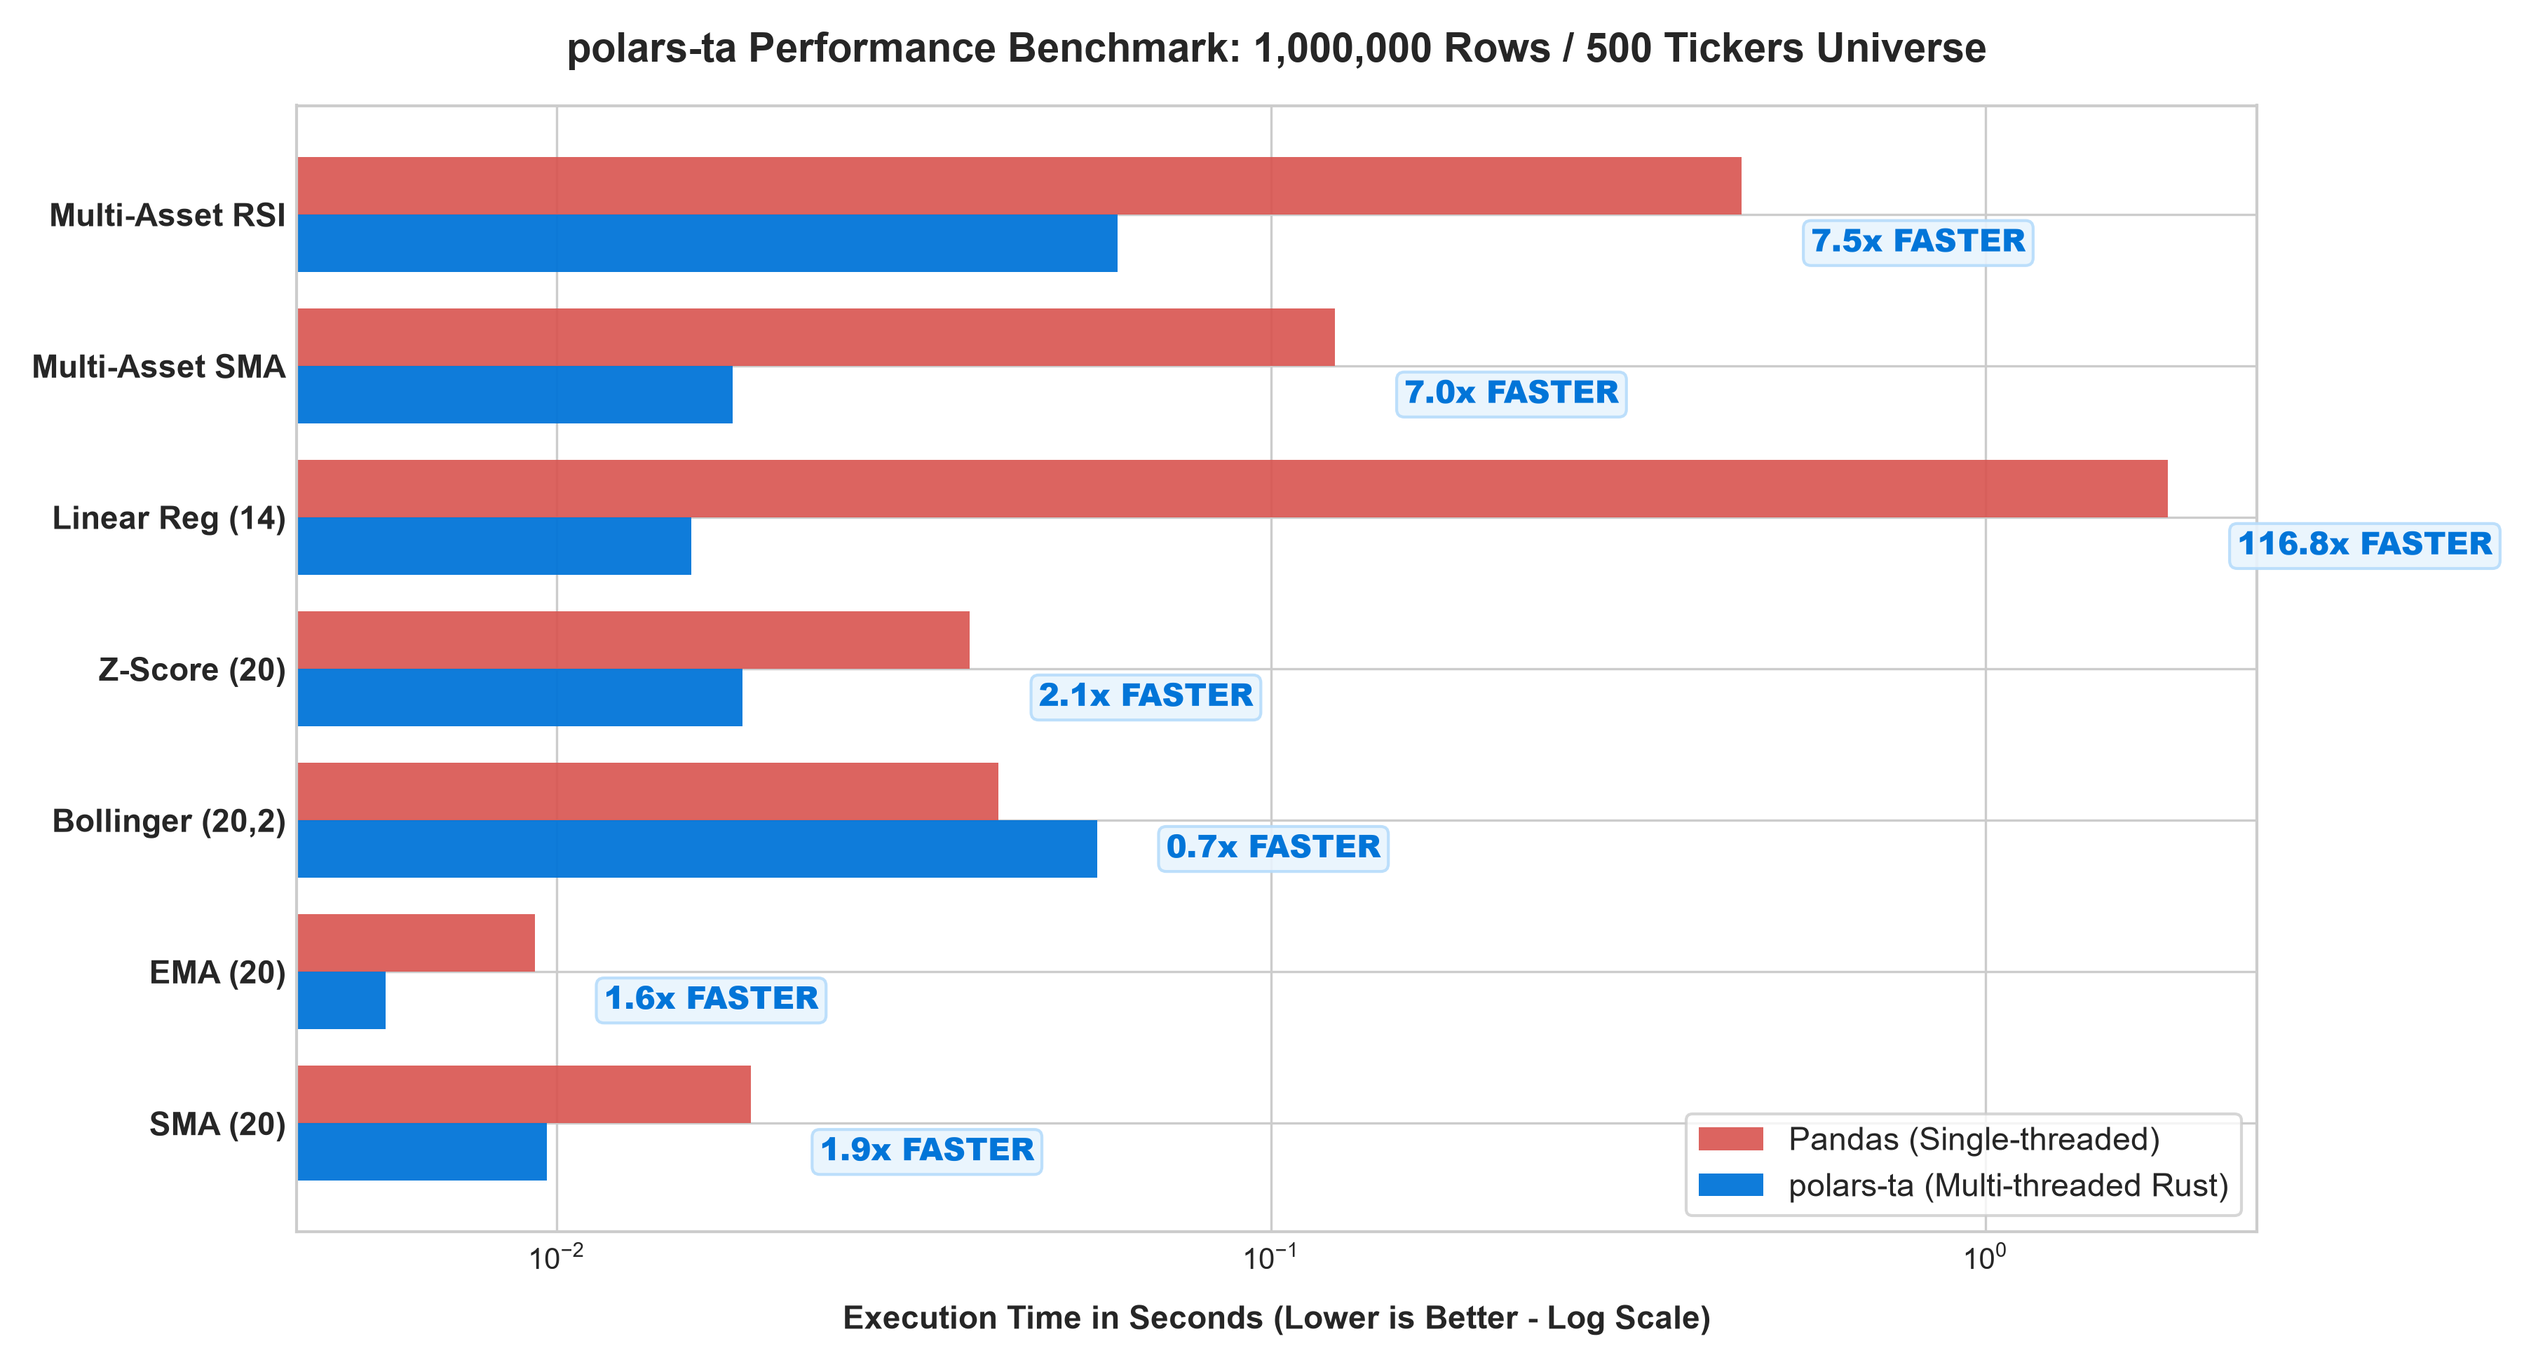
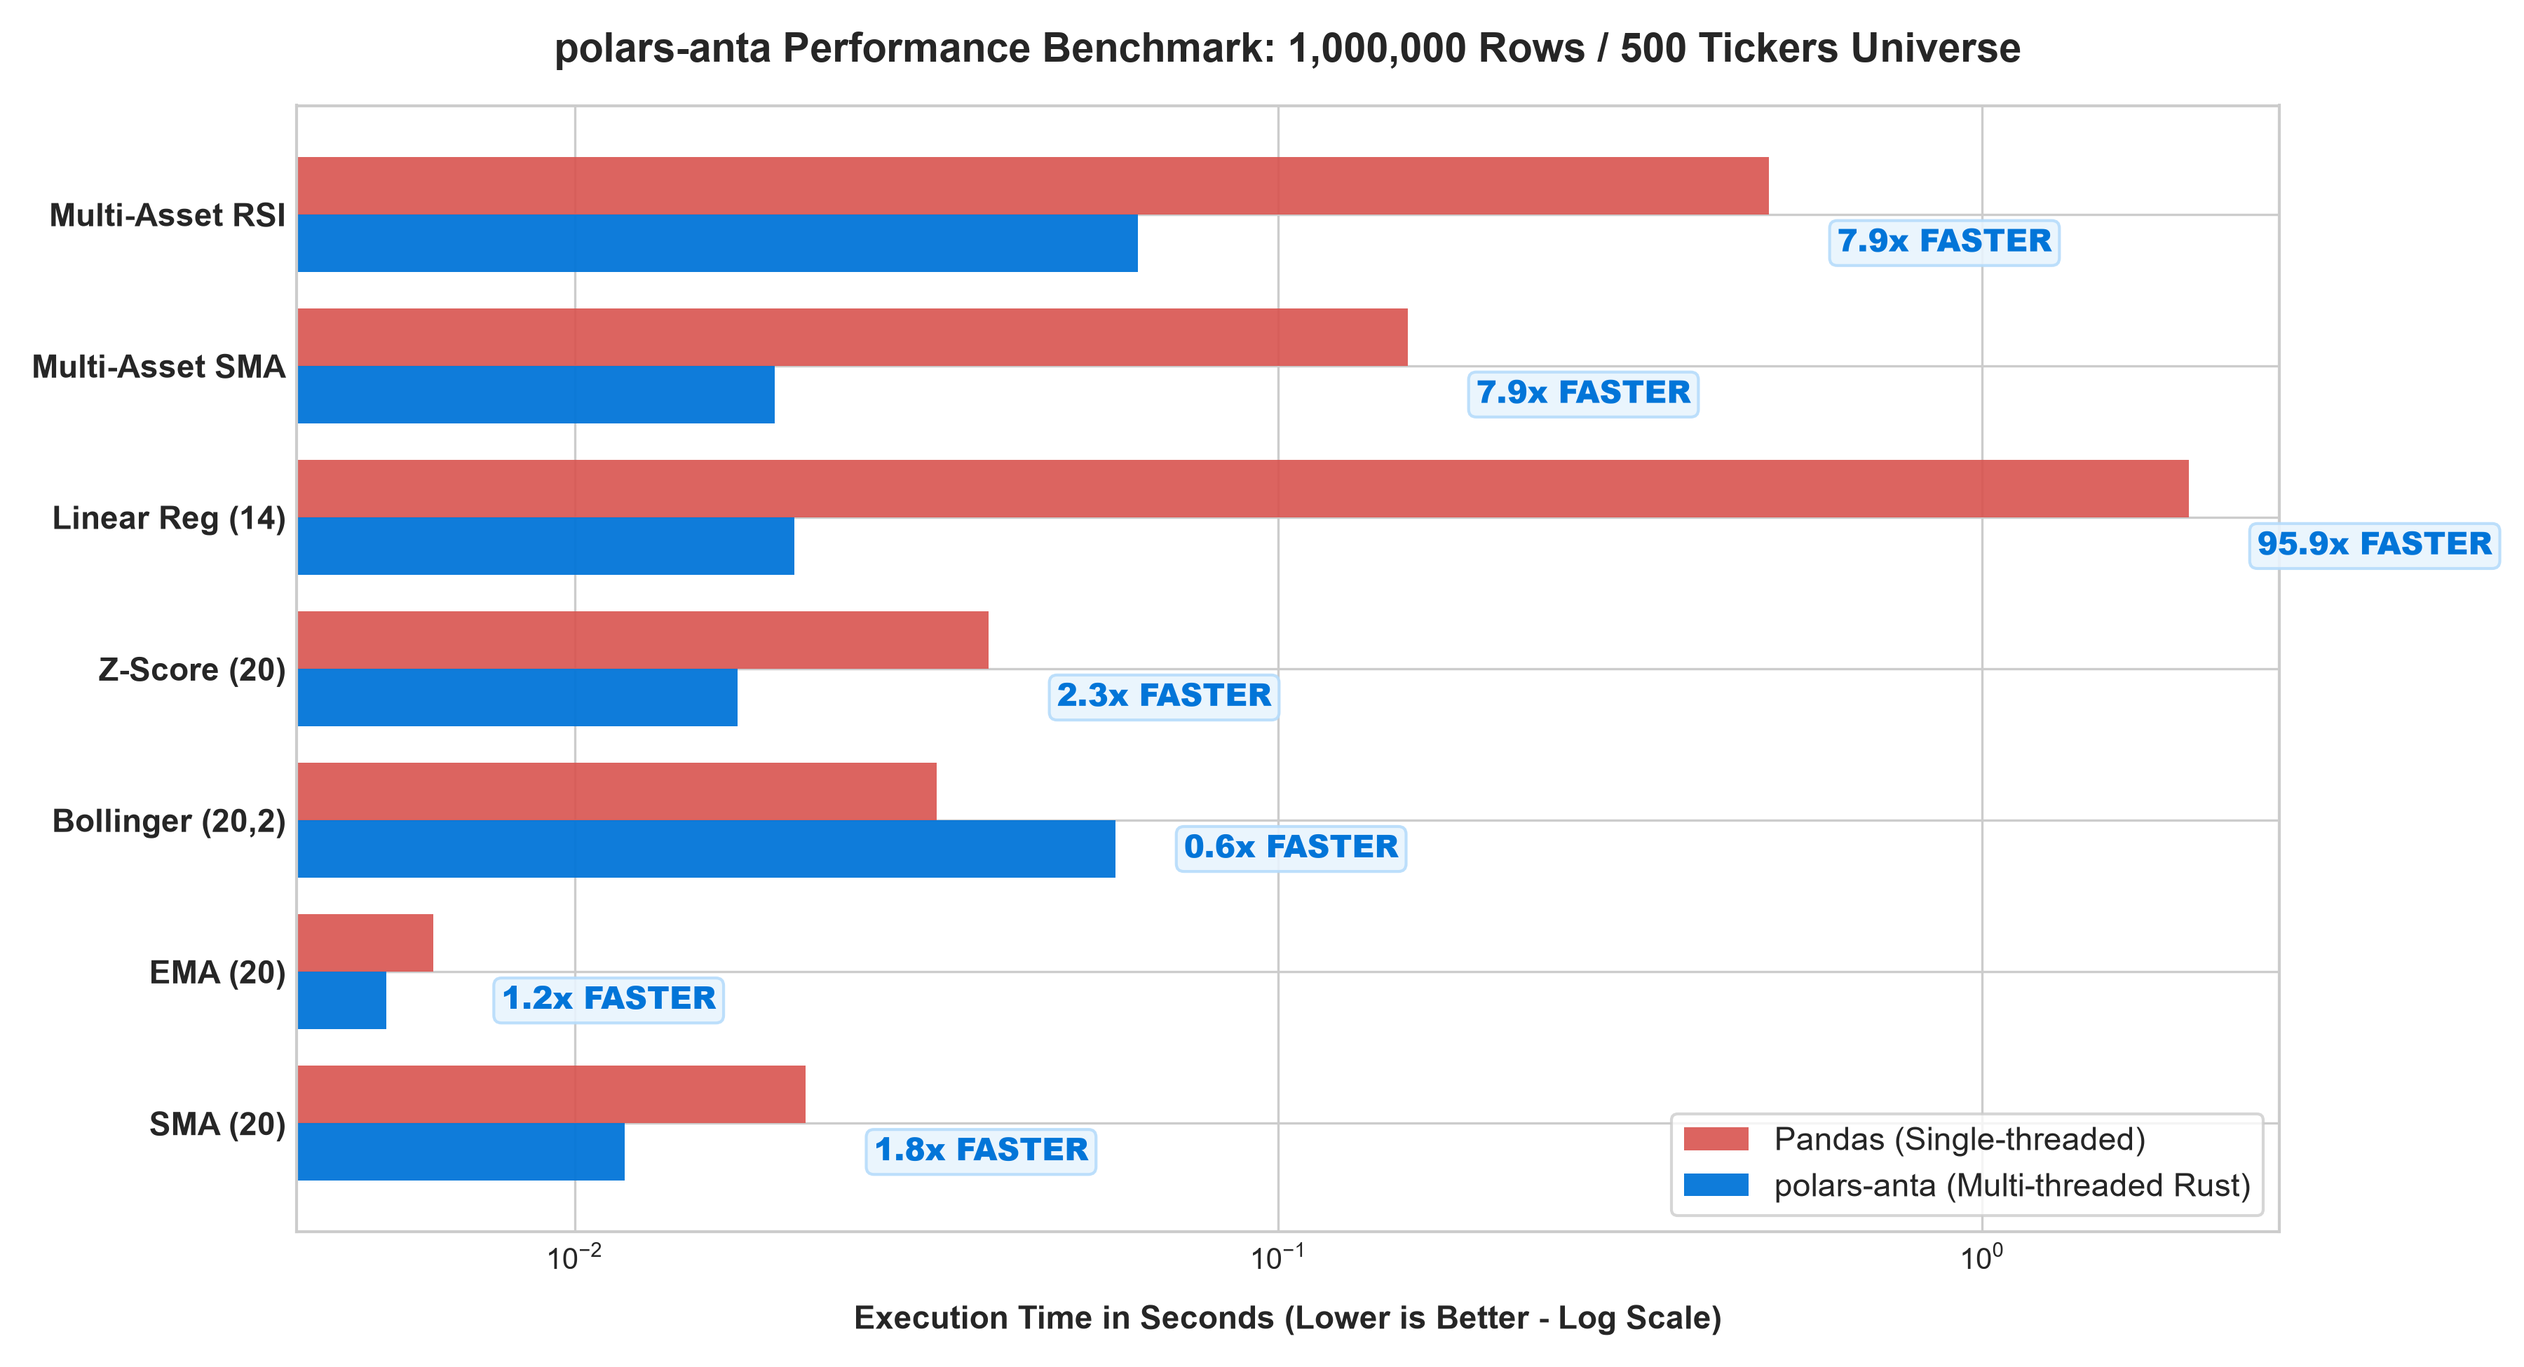
chore(rebrand): transition library, namespaces, docs, and benchmarks to polars-anta

diff --git a/benchmarks/benchmark_speed.py b/benchmarks/benchmark_speed.py
@@ -1,4 +1,4 @@
-"""High-throughput performance benchmark: polars-ta vs Pandas / NumPy.
+"""High-throughput performance benchmark: polars-anta vs Pandas / NumPy.
 
 Measures computation time across single-asset 1,000,000 bars and
 multi-asset 500 tickers x 2,000 bars (1,000,000 total rows).
@@ -15,7 +15,7 @@ import numpy as np
 import pandas as pd
 import polars as pl
 
-import polars_ta  # noqa: F401
+import polars_anta  # noqa: F401
 
 
 def generate_single_asset_data(n_rows: int = 1_000_000) -> tuple[pl.DataFrame, pd.DataFrame]:
@@ -94,9 +94,9 @@ def benchmark_single_asset(df_pl: pl.DataFrame, df_pd: pd.DataFrame) -> dict[str
 
     # Polars
     t0 = time.perf_counter()
-    _ = df_pl.select(pl.col("close").ta.sma(20))
+    _ = df_pl.select(pl.col("close").anta.sma(20))
     t_pl = time.perf_counter() - t0
-    results["SMA (20)"] = {"pandas": t_pd, "polars_ta": t_pl}
+    results["SMA (20)"] = {"pandas": t_pd, "polars_anta": t_pl}
 
     # 2. EMA (20)
     print("Benchmarking EMA(20)...")
@@ -105,9 +105,9 @@ def benchmark_single_asset(df_pl: pl.DataFrame, df_pd: pd.DataFrame) -> dict[str
     t_pd = time.perf_counter() - t0
 
     t0 = time.perf_counter()
-    _ = df_pl.select(pl.col("close").ta.ema(20))
+    _ = df_pl.select(pl.col("close").anta.ema(20))
     t_pl = time.perf_counter() - t0
-    results["EMA (20)"] = {"pandas": t_pd, "polars_ta": t_pl}
+    results["EMA (20)"] = {"pandas": t_pd, "polars_anta": t_pl}
 
     # 3. Bollinger Bands (20, 2)
     print("Benchmarking Bollinger Bands(20, 2)...")
@@ -119,9 +119,9 @@ def benchmark_single_asset(df_pl: pl.DataFrame, df_pd: pd.DataFrame) -> dict[str
     t_pd = time.perf_counter() - t0
 
     t0 = time.perf_counter()
-    _ = df_pl.select(pl.col("close").ta.bollinger_bands(20, 2.0))
+    _ = df_pl.select(pl.col("close").anta.bollinger_bands(20, 2.0))
     t_pl = time.perf_counter() - t0
-    results["Bollinger (20,2)"] = {"pandas": t_pd, "polars_ta": t_pl}
+    results["Bollinger (20,2)"] = {"pandas": t_pd, "polars_anta": t_pl}
 
     # 4. Z-Score (20)
     print("Benchmarking Z-Score(20)...")
@@ -132,9 +132,9 @@ def benchmark_single_asset(df_pl: pl.DataFrame, df_pd: pd.DataFrame) -> dict[str
     t_pd = time.perf_counter() - t0
 
     t0 = time.perf_counter()
-    _ = df_pl.select(pl.col("close").ta.zscore(20))
+    _ = df_pl.select(pl.col("close").anta.zscore(20))
     t_pl = time.perf_counter() - t0
-    results["Z-Score (20)"] = {"pandas": t_pd, "polars_ta": t_pl}
+    results["Z-Score (20)"] = {"pandas": t_pd, "polars_anta": t_pl}
 
     # 5. Linear Regression Slope (14)
     print("Benchmarking Linear Regression Slope(14)...")
@@ -148,9 +148,9 @@ def benchmark_single_asset(df_pl: pl.DataFrame, df_pd: pd.DataFrame) -> dict[str
     t_pd = time.perf_counter() - t0
 
     t0 = time.perf_counter()
-    _ = df_pl.select(pl.col("close").ta.linear_regression_slope(14))
+    _ = df_pl.select(pl.col("close").anta.linear_regression_slope(14))
     t_pl = time.perf_counter() - t0
-    results["Linear Reg (14)"] = {"pandas": t_pd, "polars_ta": t_pl}
+    results["Linear Reg (14)"] = {"pandas": t_pd, "polars_anta": t_pl}
 
     return results
 
@@ -165,9 +165,9 @@ def benchmark_multi_asset(df_pl: pl.DataFrame, df_pd: pd.DataFrame) -> dict[str,
     t_pd = time.perf_counter() - t0
 
     t0 = time.perf_counter()
-    _ = df_pl.select(pl.col("close").ta.sma(20).over("ticker"))
+    _ = df_pl.select(pl.col("close").anta.sma(20).over("ticker"))
     t_pl = time.perf_counter() - t0
-    results["Multi-Asset SMA"] = {"pandas": t_pd, "polars_ta": t_pl}
+    results["Multi-Asset SMA"] = {"pandas": t_pd, "polars_anta": t_pl}
 
     print("Benchmarking Multi-Asset (500 tickers): RSI(14)...")
 
@@ -186,9 +186,9 @@ def benchmark_multi_asset(df_pl: pl.DataFrame, df_pd: pd.DataFrame) -> dict[str,
     t_pd = time.perf_counter() - t0
 
     t0 = time.perf_counter()
-    _ = df_pl.select(pl.col("close").ta.rsi(14).over("ticker"))
+    _ = df_pl.select(pl.col("close").anta.rsi(14).over("ticker"))
     t_pl = time.perf_counter() - t0
-    results["Multi-Asset RSI"] = {"pandas": t_pd, "polars_ta": t_pl}
+    results["Multi-Asset RSI"] = {"pandas": t_pd, "polars_anta": t_pl}
 
     return results
 
@@ -197,7 +197,7 @@ def plot_benchmark_chart(all_results: dict[str, dict[str, float]], output_path: 
     """Renders a modern, publication-grade benchmark chart."""
     labels = list(all_results.keys())
     pd_times = [all_results[k]["pandas"] for k in labels]
-    pl_times = [all_results[k]["polars_ta"] for k in labels]
+    pl_times = [all_results[k]["polars_anta"] for k in labels]
     speedups = [pd_t / pl_t for pd_t, pl_t in zip(pd_times, pl_times, strict=False)]
 
     # Modern plot styling
@@ -221,7 +221,7 @@ def plot_benchmark_chart(all_results: dict[str, dict[str, float]], output_path: 
         y_pos - bar_height / 2,
         pl_times,
         height=bar_height,
-        label="polars-ta (Multi-threaded Rust)",
+        label="polars-anta (Multi-threaded Rust)",
         color="#0275d8",
         alpha=0.95,
     )
@@ -236,7 +236,7 @@ def plot_benchmark_chart(all_results: dict[str, dict[str, float]], output_path: 
     )
     ax.set_xscale("log")
     ax.set_title(
-        "polars-ta Performance Benchmark: 1,000,000 Rows / 500 Tickers Universe",
+        "polars-anta Performance Benchmark: 1,000,000 Rows / 500 Tickers Universe",
         fontsize=14,
         fontweight="bold",
         pad=15,
@@ -269,7 +269,7 @@ def plot_benchmark_chart(all_results: dict[str, dict[str, float]], output_path: 
 
 def main():
     print("=" * 70)
-    print("polars-ta High-Performance Benchmarking Suite")
+    print("polars-anta High-Performance Benchmarking Suite")
     print("=" * 70)
 
     # 1. Single Asset Benchmark
@@ -285,12 +285,12 @@ def main():
     # Print summary table
     print("\n" + "=" * 70)
     print(
-        f"{'Indicator / Operation':<25} | {'Pandas (s)':<12} | {'polars-ta (s)':<14} | {'Speedup':<10}"
+        f"{'Indicator / Operation':<25} | {'Pandas (s)':<12} | {'polars-anta (s)':<14} | {'Speedup':<10}"
     )
     print("-" * 70)
     for k, v in all_results.items():
         pd_t = v["pandas"]
-        pl_t = v["polars_ta"]
+        pl_t = v["polars_anta"]
         ratio = pd_t / pl_t
         print(f"{k:<25} | {pd_t:<12.4f} | {pl_t:<14.4f} | {ratio:<10.1f}x")
     print("=" * 70)

diff --git a/tests/test_namespace.py b/tests/test_namespace.py
@@ -1,11 +1,11 @@
-"""Tests for Polars .ta namespace integration."""
+"""Tests for Polars .anta and .ta namespace integration."""
 
 from __future__ import annotations
 
 import polars as pl
 
-# Importing polars_ta registers the `.ta` namespace on pl.Expr
-import polars_ta  # noqa: F401
+# Importing polars_anta registers both `.anta` and `.ta` namespaces on pl.Expr
+import polars_anta  # noqa: F401
 
 
 def test_namespace_trend(sample_ohlcv_df: pl.DataFrame):
@@ -235,3 +235,33 @@ def test_namespace_alpha(sample_ohlcv_df: pl.DataFrame):
     assert "hl_r" in df_res.columns
     assert "twap" in df_res.columns
     assert "entropy" in df_res.columns
+
+
+def test_namespace_anta_prefix(sample_ohlcv_df: pl.DataFrame):
+    """Verify that .anta prefix works identically to .ta prefix."""
+    df_anta = sample_ohlcv_df.select(
+        [
+            pl.col("close").anta.sma(5).alias("sma_anta"),
+            pl.col("close").anta.rsi(14).alias("rsi_anta"),
+            pl.col("close").anta.bollinger_bands(20).alias("bb_anta"),
+            pl.col("close").anta.obv("volume").alias("obv_anta"),
+            pl.col("close").anta.zscore(5).alias("zscore_anta"),
+            pl.col("close").anta.ts_rank(5).alias("ts_rank_anta"),
+        ]
+    )
+    df_ta = sample_ohlcv_df.select(
+        [
+            pl.col("close").ta.sma(5).alias("sma_ta"),
+            pl.col("close").ta.rsi(14).alias("rsi_ta"),
+            pl.col("close").ta.bollinger_bands(20).alias("bb_ta"),
+            pl.col("close").ta.obv("volume").alias("obv_ta"),
+            pl.col("close").ta.zscore(5).alias("zscore_ta"),
+            pl.col("close").ta.ts_rank(5).alias("ts_rank_ta"),
+        ]
+    )
+
+    assert df_anta["sma_anta"].equals(df_ta["sma_ta"])
+    assert df_anta["rsi_anta"].equals(df_ta["rsi_ta"])
+    assert df_anta["obv_anta"].equals(df_ta["obv_ta"])
+    assert df_anta["zscore_anta"].equals(df_ta["zscore_ta"])
+    assert df_anta["ts_rank_anta"].equals(df_ta["ts_rank_ta"])

diff --git a/examples/quickstart.py b/examples/quickstart.py
@@ -1,4 +1,4 @@
-"""Quickstart example demonstrating polars-ta usage and multi-asset grouping."""
+"""Quickstart example demonstrating polars-anta usage and multi-asset grouping."""
 
 from __future__ import annotations
 
@@ -6,14 +6,15 @@ import sys
 
 import polars as pl
 
-import polars_ta  # noqa: F401
+# Importing polars_anta registers both `.anta` and `.ta` namespaces on expressions
+import polars_anta  # noqa: F401
 
 if hasattr(sys.stdout, "reconfigure"):
     sys.stdout.reconfigure(encoding="utf-8")
 
 
 def main():
-    print("--- 1. Single Asset Example ---")
+    print("--- 1. Single Asset Example (using .anta namespace) ---")
     df = pl.DataFrame(
         {
             "open": [100.0, 101.5, 102.0, 101.0, 103.5, 105.0, 104.2, 106.0],
@@ -24,13 +25,13 @@ def main():
         }
     )
 
-    # Compute SMA, RSI, Bollinger Bands, and OBV
+    # Compute SMA, RSI, Bollinger Bands, and OBV using .anta (or .ta)
     computed = df.with_columns(
         [
-            pl.col("close").ta.sma(3).alias("sma_3"),
-            pl.col("close").ta.rsi(3).alias("rsi_3"),
-            pl.col("close").ta.bollinger_bands(period=3).alias("bb"),
-            pl.col("close").ta.obv("volume").alias("obv"),
+            pl.col("close").anta.sma(3).alias("sma_3"),
+            pl.col("close").anta.rsi(3).alias("rsi_3"),
+            pl.col("close").anta.bollinger_bands(period=3).alias("bb"),
+            pl.col("close").anta.obv("volume").alias("obv"),
         ]
     )
 
@@ -49,8 +50,8 @@ def main():
     )
 
     result_multi = multi_asset.with_columns(
-        pl.col("close").ta.sma(2).over("ticker").alias("sma_2"),
-        pl.col("close").ta.rsi(2).over("ticker").alias("rsi_2"),
+        pl.col("close").anta.sma(2).over("ticker").alias("sma_2"),
+        pl.col("close").anta.rsi(2).over("ticker").alias("rsi_2"),
     )
     print(result_multi)
 

diff --git a/tests/test_parity.py b/tests/test_parity.py
@@ -1,6 +1,6 @@
-"""Mathematical parity and precision verification tests for polars-ta indicators.
+"""Mathematical parity and precision verification tests for polars-anta indicators.
 
-Verifies that polars-ta indicators match textbook mathematical definitions
+Verifies that polars-anta indicators match textbook mathematical definitions
 and golden reference implementations within machine epsilon / float precision (< 1e-6).
 """
 
@@ -9,9 +9,9 @@ from __future__ import annotations
 import polars as pl
 import pytest
 
-from polars_ta.stats import linear_regression_slope, zscore
-from polars_ta.trend import dema, ema, sma, wma
-from polars_ta.volatility import bollinger_bands
+from polars_anta.stats import linear_regression_slope, zscore
+from polars_anta.trend import dema, ema, sma, wma
+from polars_anta.volatility import bollinger_bands
 
 
 @pytest.fixture

diff --git a/src/polars_anta/namespace.py b/src/polars_anta/namespace.py
@@ -12,11 +12,12 @@ if TYPE_CHECKING:
     from .core import IntoExpr
 
 
+@pl.api.register_expr_namespace("anta")
 @pl.api.register_expr_namespace("ta")
 class TechnicalAnalysisExpr:
-    """Namespace for technical analysis operations on Polars expressions.
+    """Namespace for technical analysis and alpha factor operations on Polars expressions.
 
-    Allows chaining technical analysis indicators directly on `pl.col(...)`.
+    Allows chaining indicators directly on `pl.col(...)` via `.anta.<indicator>()` or `.ta.<indicator>()`.
     """
 
     def __init__(self, expr: pl.Expr) -> None:

diff --git a/src/polars_anta/__init__.py b/src/polars_anta/__init__.py
@@ -1,4 +1,4 @@
-"""polars-ta: High-performance, zero-C technical analysis and factor library powered by Polars."""
+"""polars-anta: Alpha & Numerical Technical Analysis library powered natively by Polars."""
 
 from __future__ import annotations
 

diff --git a/tests/test_stats.py b/tests/test_stats.py
@@ -3,7 +3,7 @@ from __future__ import annotations
 import polars as pl
 import pytest
 
-from polars_ta.stats import (
+from polars_anta.stats import (
     kurtosis,
     linear_regression_angle,
     linear_regression_forecast,

diff --git a/tests/test_momentum.py b/tests/test_momentum.py
@@ -5,7 +5,7 @@ from __future__ import annotations
 import polars as pl
 import pytest
 
-from polars_ta.momentum import (
+from polars_anta.momentum import (
     awesome_oscillator,
     bop,
     cci,

diff --git a/tests/test_volatility.py b/tests/test_volatility.py
@@ -4,7 +4,7 @@ from __future__ import annotations
 
 import polars as pl
 
-from polars_ta.volatility import (
+from polars_anta.volatility import (
     atr,
     bollinger_bands,
     bollinger_delta,

diff --git a/tests/test_alpha.py b/tests/test_alpha.py
@@ -3,7 +3,7 @@ from __future__ import annotations
 import polars as pl
 import pytest
 
-from polars_ta.alpha import (
+from polars_anta.alpha import (
     co_ratio,
     decay_linear,
     entropy,

diff --git a/src/polars_anta/core.py b/src/polars_anta/core.py
@@ -1,4 +1,4 @@
-"""Core utility functions and expression helpers for polars-ta."""
+"""Core utility functions and expression helpers for polars-anta."""
 
 from __future__ import annotations
 

diff --git a/tests/test_trend.py b/tests/test_trend.py
@@ -5,7 +5,7 @@ from __future__ import annotations
 import polars as pl
 import pytest
 
-from polars_ta.trend import (
+from polars_anta.trend import (
     adx,
     alma,
     aroon,
